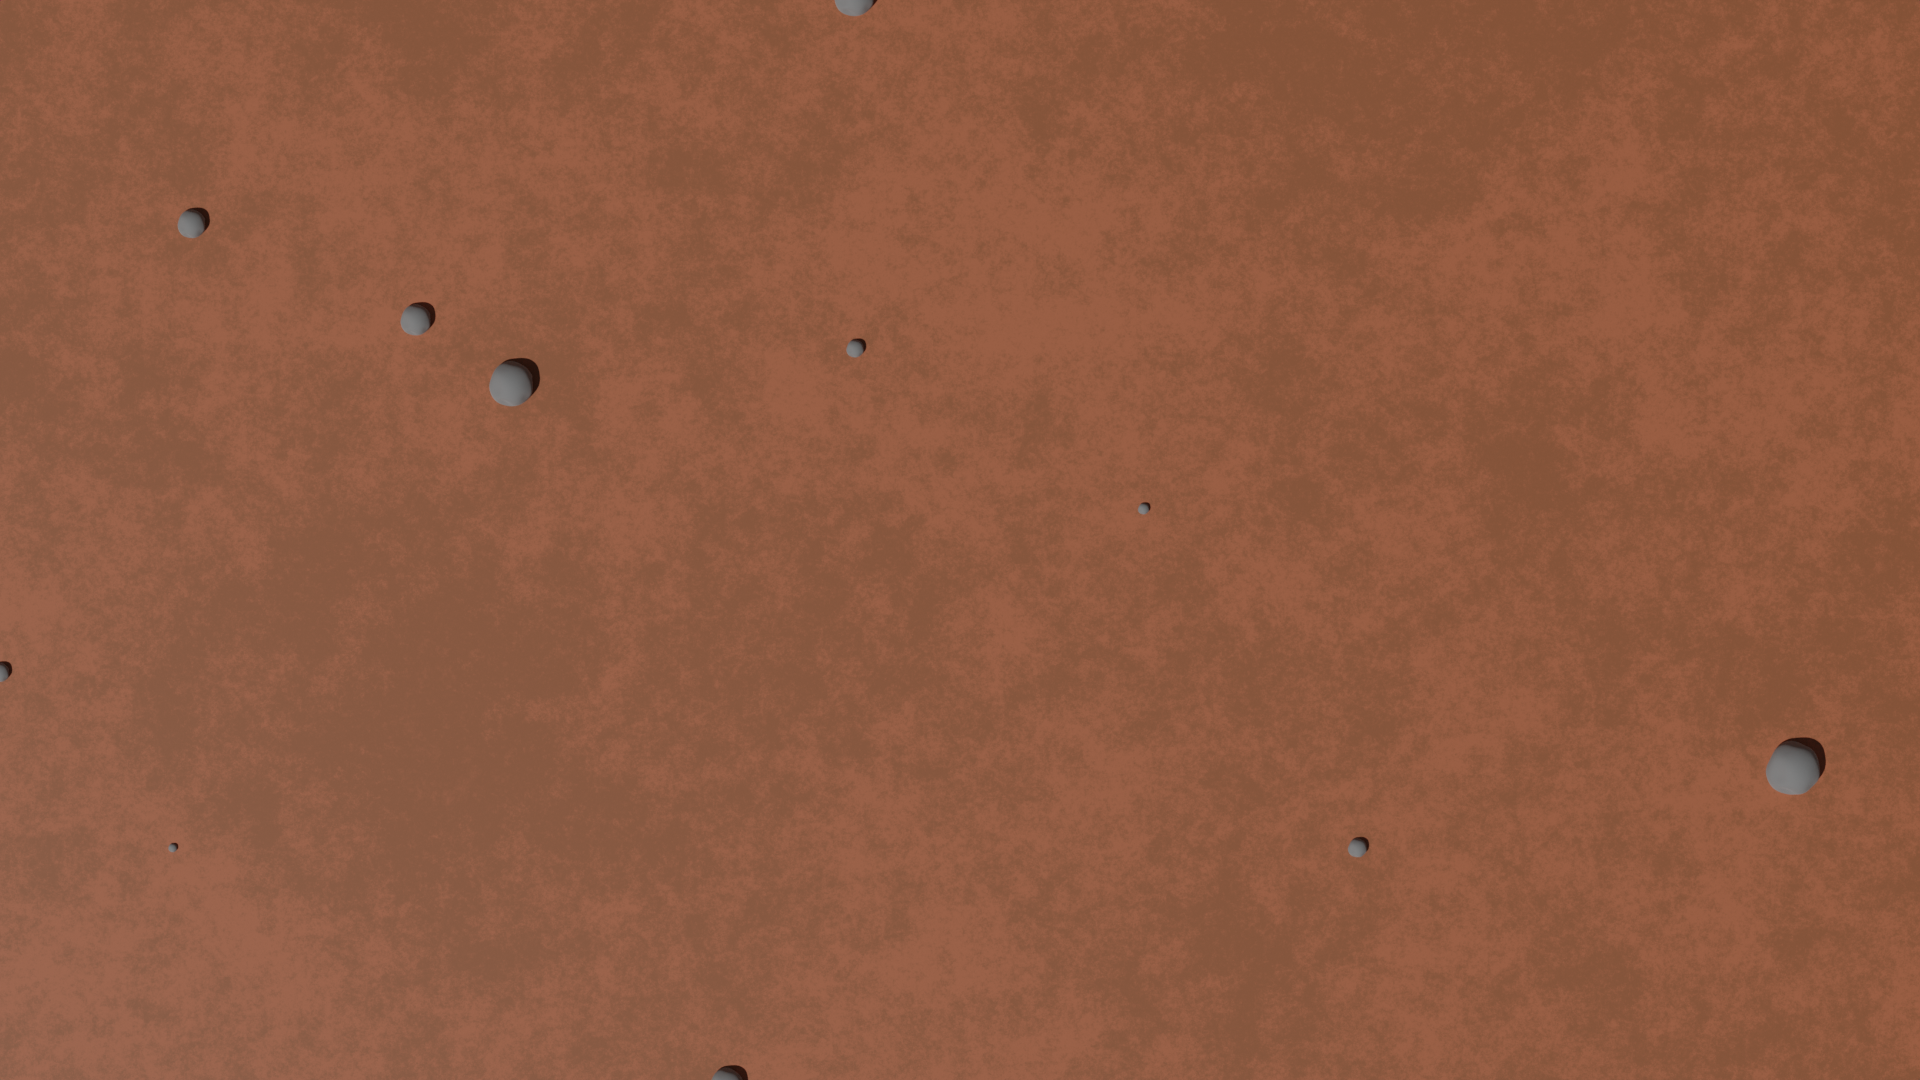
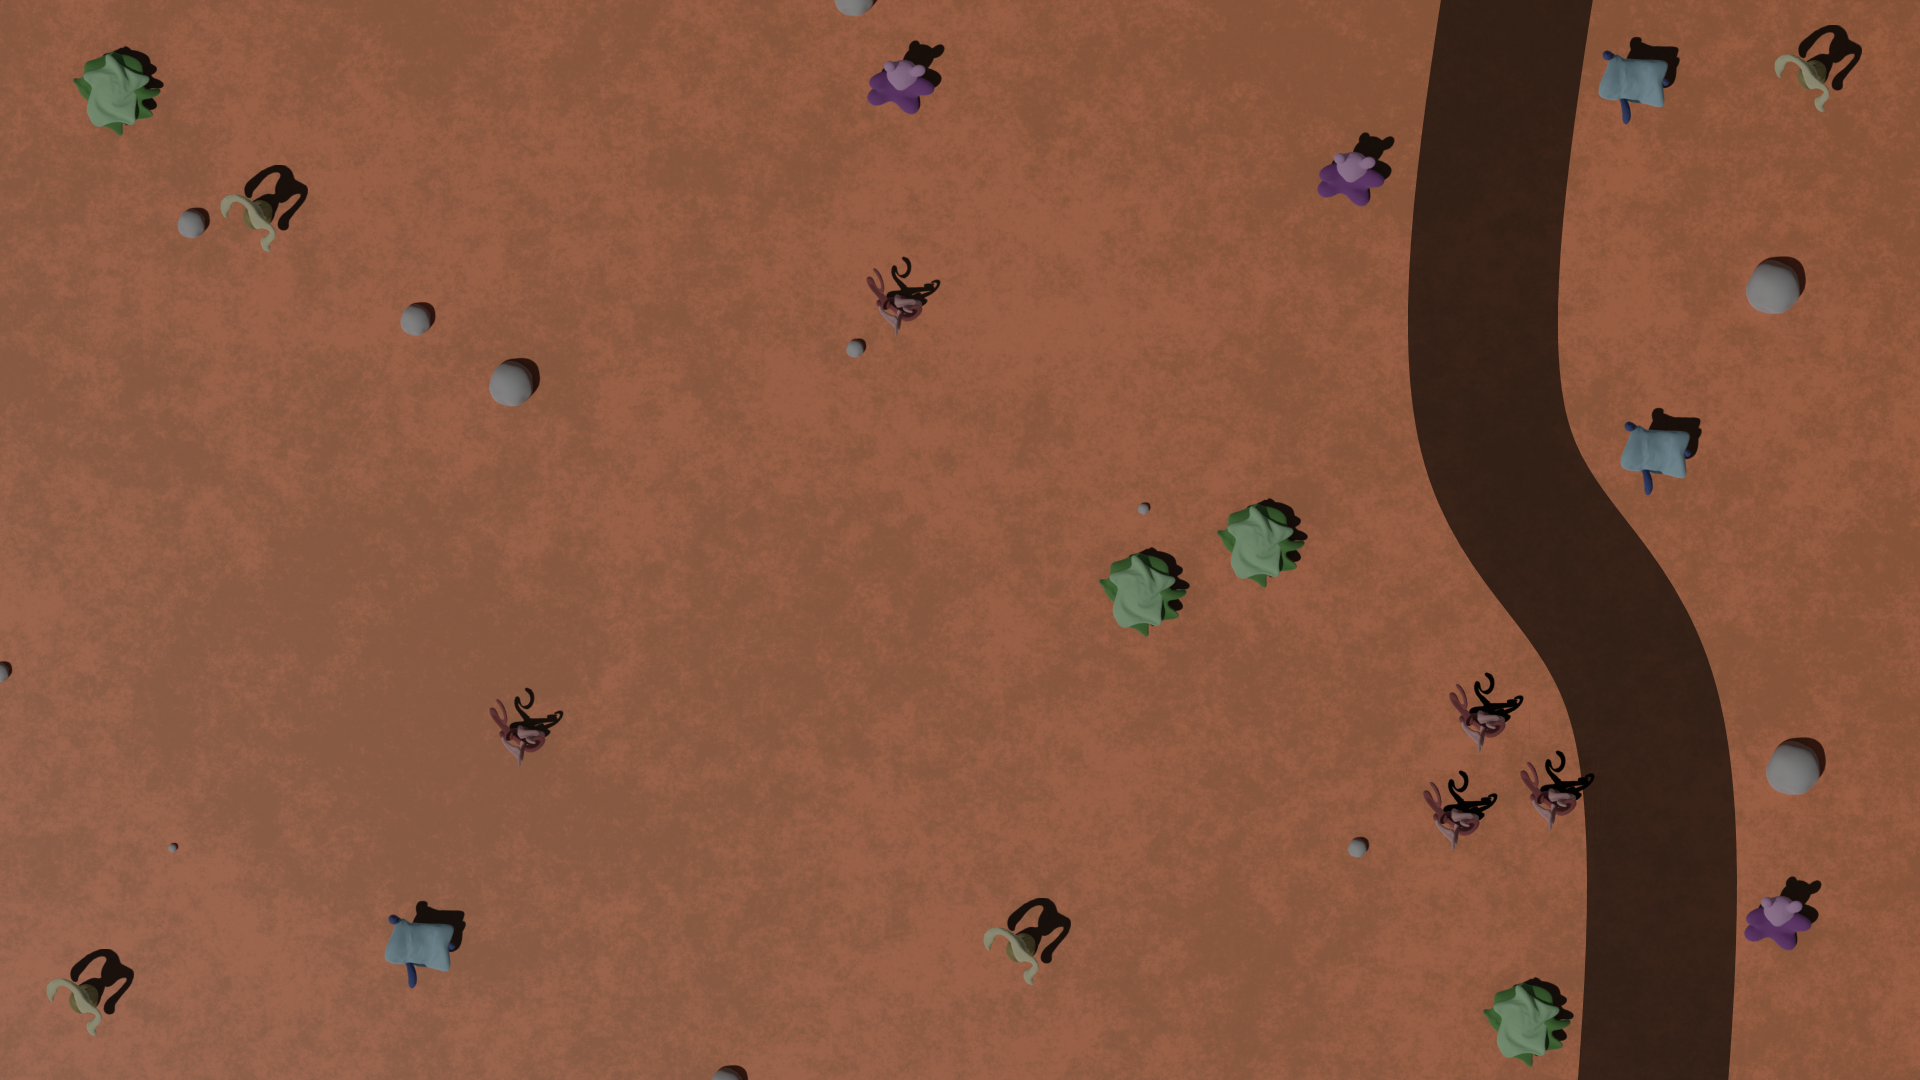
15.07.2022: Startmenü + Hintergrund Visuell angepasst/gestyled

diff --git a/Endaufgabe/ggsim.css b/Endaufgabe/ggsim.css
@@ -5,7 +5,7 @@
     left: 0;
     width: 100%;
     height: 100%;
-    background-color: brown;
+    background-image: url(.//assets/Mothbg.png);
     z-index: 1;
 }
 
@@ -31,7 +31,29 @@
     position: absolute;
     top: 210px;
     z-index: 2;
+    color: white;
+    top: 50%;
+    left: 50%;
+    transform: translate(-50%, -50%);
+    background-color: rgba(00, 00, 00, 0.7);
 }
+#settingsContainer button {
+    color: white;
+    background-color: rgba(00, 00, 00, 0.7);
+    padding: 20px;
+    border-radius: 20px;
+}
+
+#settingsContainer input {
+    padding: 20px;
+}
+
+#settingsContainer button:hover {
+    border-color: white;
+    border-style: solid;
+    border-width: 2px;
+}
+
 #moneyCount{
     font-size: 70px;
     font-family: 'Times New Roman', Times, serif;
@@ -43,6 +65,9 @@ button{
     font-size: 30px;
     font-family: 'Times New Roman', Times, serif;
     cursor: pointer;
+    border-color: rgba(00, 00, 00, 0);
+    border-style: solid;
+    border-width: 2px;
 }
 button :hover{
     cursor: pointer;
